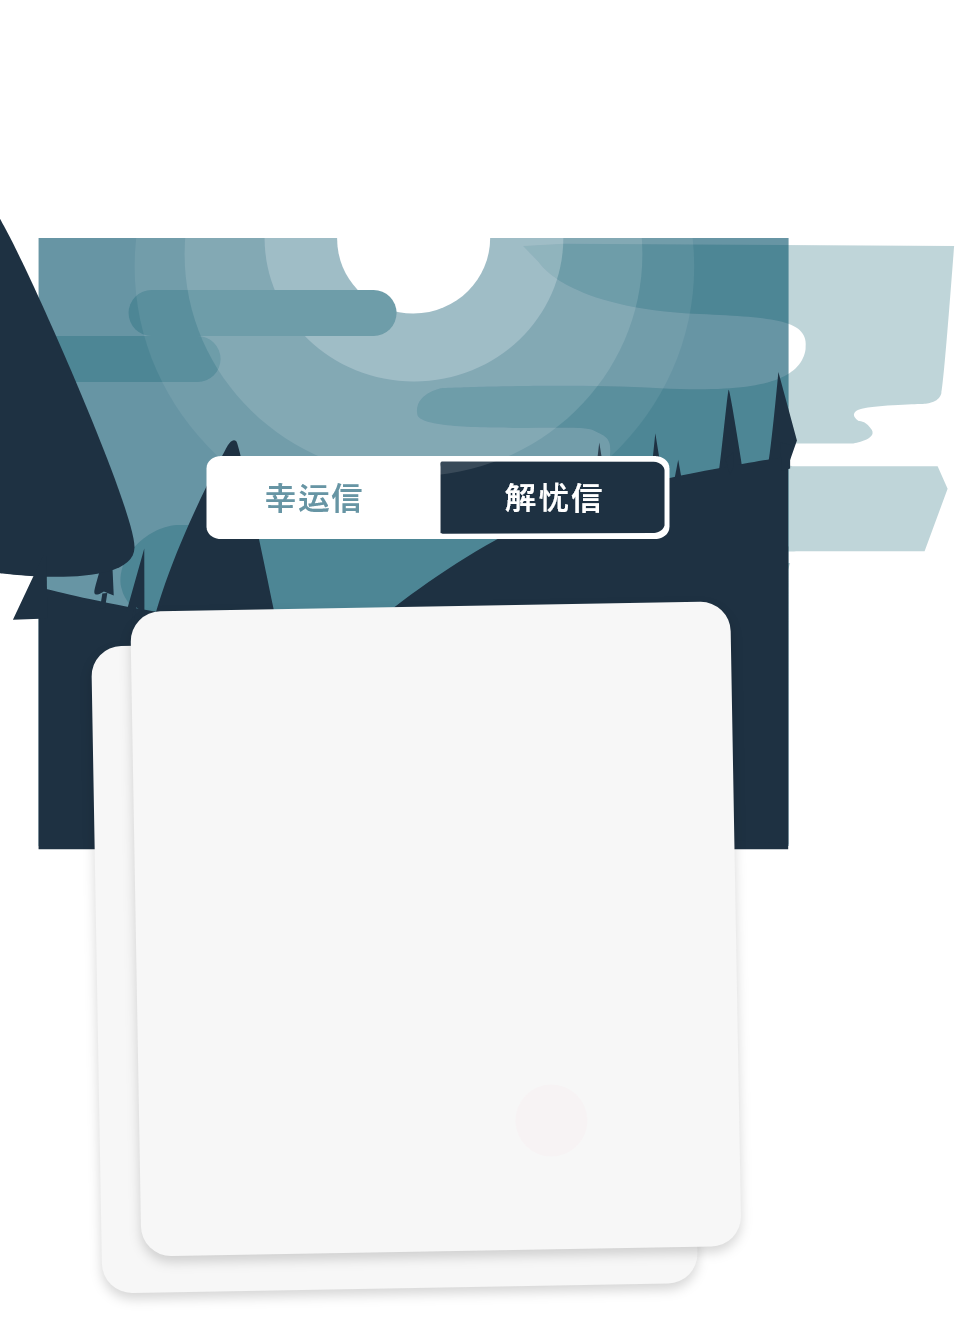
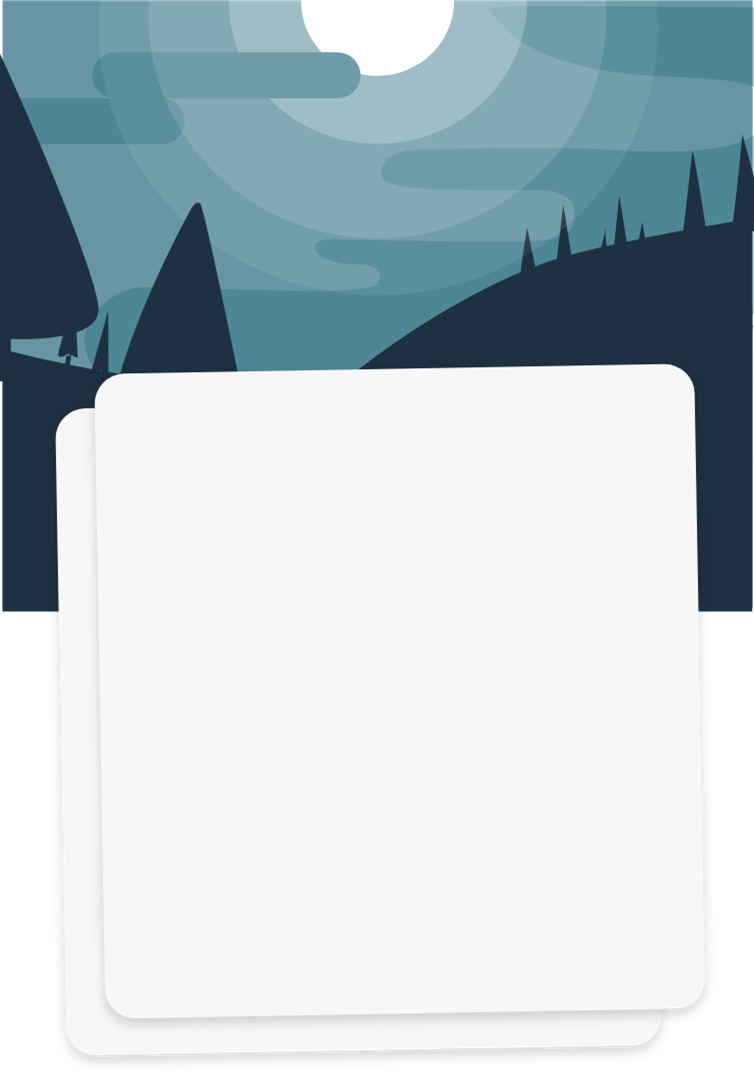
基本故事馆样式

diff --git a/src/components/Footer/Footer.jsx b/src/components/Footer/Footer.jsx
@@ -4,6 +4,24 @@ import tree from './tree.png'
 import lib from './lib.png'
 import mine from './mine.png'
 import lib_bg from './lib_bg.png'
+import { createBrowserHistory } from 'history'
+
+const history = createBrowserHistory();
+
+let toMine = () => {
+  history.push('/');
+  window.location.reload()
+}
+
+let toLib = () => {
+  history.push('/library');
+  window.location.reload()
+}
+
+let toTree = () => {
+  history.push('/tree');
+  window.location.reload()
+}
 
 function Footer() {
   return (
@@ -11,7 +29,9 @@ function Footer() {
       <div className='lib-bg'>
         <img src={lib_bg} alt="" className='lib-bg-img' />
       </div>
-      <div className='swicth-to-tree'>
+      <div className='swicth-to-tree'
+        onClick={toTree}
+      >
         <div className='tree-content'>
           <div className='tree-img'>
             <img src={tree} alt="" />
@@ -19,7 +39,9 @@ function Footer() {
           <div> 心情树</div>
         </div>
       </div>
-      <div className='swicth-to-lib'>
+      <div className='swicth-to-lib'
+        onClick={toLib}
+      >
         <div className='lib-content'>
           <div className='lib-img'>
             <img src={lib} alt="" />
@@ -27,7 +49,10 @@ function Footer() {
           <p>故事馆</p>
         </div>
       </div>
-      <div className='swicth-to-mine'>
+      <div
+        className='swicth-to-mine'
+        onClick={toMine}
+      >
         <div className='mine-content'>
           <div className='mine-img'>
             <img src={mine} alt="" />

diff --git a/src/App.js b/src/App.js
@@ -10,6 +10,7 @@ import Login from './pages/login/Login'
 import Register from './pages/register/Register';
 import Mine from './pages/mine/Mine'
 import Retrieve from './pages/retrieve/Retrieve'
+import Library from './pages/librarys/Library';
 
 
 function App() {
@@ -17,17 +18,20 @@ function App() {
     <div className="App">
       <Router>
         <Switch>
-          <Route path="/login">
+          <Route path="/login" exact>
             <Login />
           </Route>
-          <Route path="/register">
+          <Route path="/register" exact>
             <Register />
           </Route>
-          <Route path="/retrieve">
+          <Route path="/retrieve" exact>
             <Retrieve />
           </Route>
-          <Route path="/">
+          <Route path="/" exact>
             <Mine />
+          </Route>
+          <Route path="/library" exact>
+            <Library />
           </Route>
         </Switch>
       </Router>

diff --git a/src/pages/librarys/Library.css b/src/pages/librarys/Library.css
@@ -1,0 +1,51 @@
+.footer-body {
+  width: 100%;
+  position: fixed;
+  bottom: 0;
+}
+
+.lib-body {
+  width: 100%;
+  height: 100%;
+  background-image: url('./lib-bg.png');
+  background-size: 100% 80%;
+  background-repeat: no-repeat;
+}
+
+.switch-tab {
+  width: 2.3rem;
+  height: 0.4rem;
+  border: 1px solid red;
+  border-radius: 0.07rem;
+  position: fixed;
+  left: 20%;
+  top: 16%;
+  display: flex;
+  justify-items: auto;
+  background-color: white;
+}
+
+.to-luck-letter, .to-sad-letter {
+  width: 50%;
+  height: 100%;
+  display: flex;
+  justify-content: center;
+  align-items: center;
+}
+
+.to-luck-letter {
+  color: #6795A4;
+}
+
+.to-sad-letter {
+  color: white
+}
+
+.letter-content {
+  width: 3rem;
+  height: 3.2rem;
+  border: 1px solid red;
+  position: fixed;
+  left: 13%;
+  top: 27%;
+}

diff --git a/src/pages/librarys/Library.jsx b/src/pages/librarys/Library.jsx
@@ -1,0 +1,27 @@
+import React from 'react';
+import './Library.css'
+import Footer from '../../components/Footer/Footer'
+
+function Library(props) {
+  return (
+    <div className='lib-body'>
+      <div className='switch-tab'>
+        <div className='to-luck-letter'>
+          <div>幸运信</div>
+        </div>
+        <div className='to-sad-letter'>
+          <div>解忧信</div>
+        </div>
+      </div>
+      <div className='letter-content'>
+
+      </div>
+      <div className='footer-body'>
+        <Footer />
+      </div>
+    </div>
+
+  )
+}
+
+export default Library
